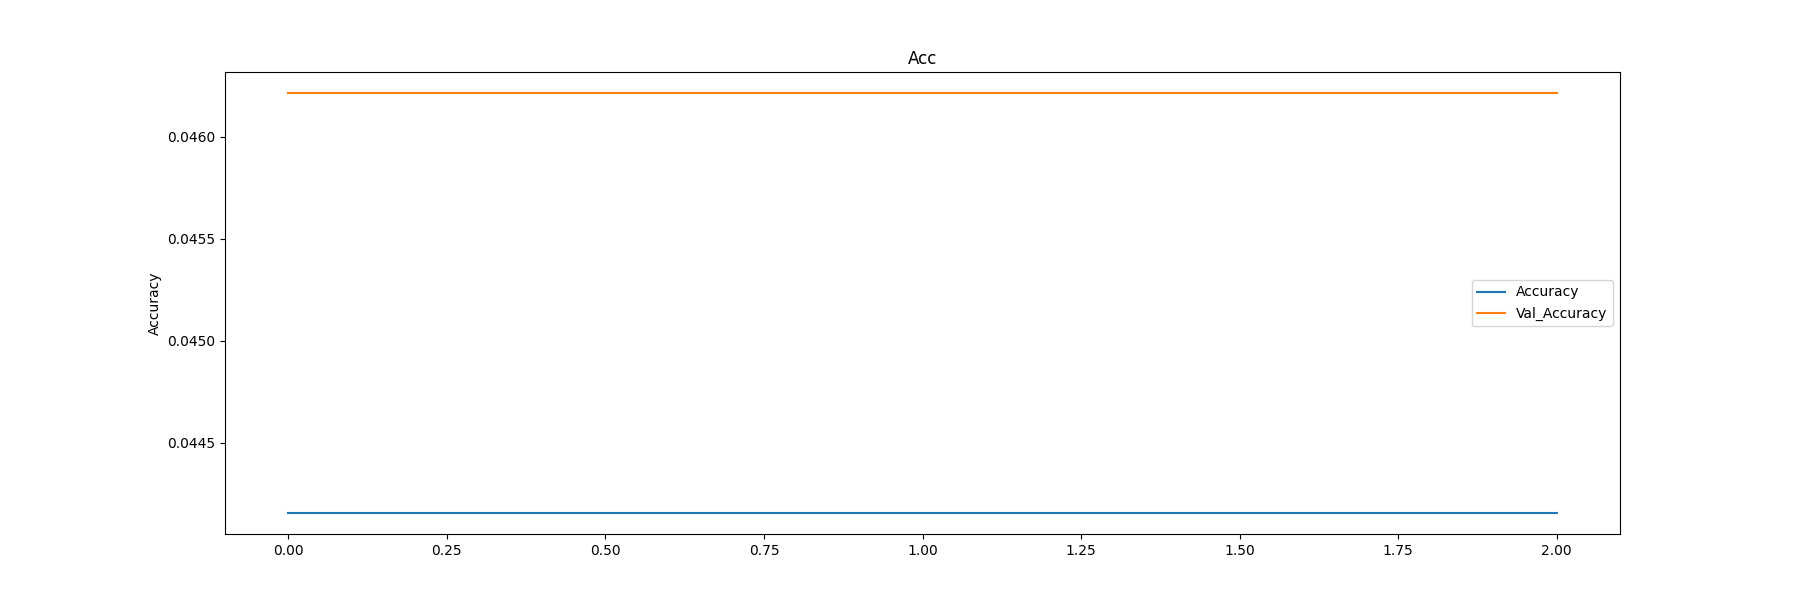
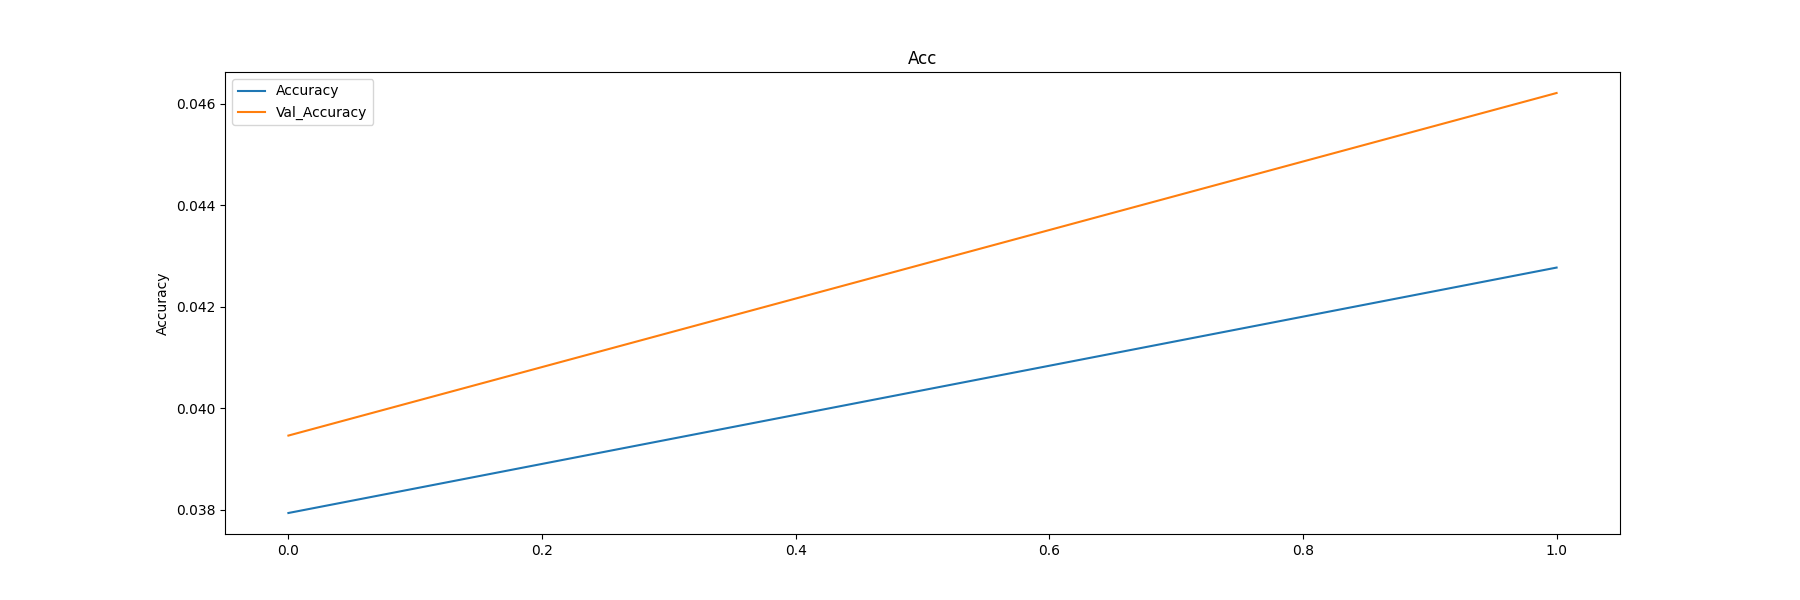
[AUTO] training model v0.0-testing, epoch 2.

diff --git a/commands/train_and_save.py b/commands/train_and_save.py
@@ -8,41 +8,46 @@ from commands.git import git_auto_commit
 from commands.history_plot import update_readme
 from model.data import flow_from_directory
 
-def train_and_save(model, epochs, save_interval = None,custom_metrics = None, custom_optimizer = None, push = None):
+def read_history(hist_path):
+    with open(hist_path) as csvfile:
+        csv_reader = csv.reader(csvfile)
+        return [row for row in csv_reader]
+    
+def create_history(hist_path, custom_metrics):
+    with open(hist_path, 'w', newline='') as csvfile:
+        csv_writer = csv.writer(csvfile)
+        columns = ['Epoch', 'Batch_Size', 'Loss', 'Accuracy', 'Val_Loss', 'Val_Accuracy']
+        if custom_metrics:
+            for metric in custom_metrics:
+                metric_name = metric.__name__
+                columns.append(metric_name)
+                columns.append("Val_" + metric_name)
+        csv_writer.writerow(columns)
+    return list()
 
-    initial_epoch = 0
+def train_and_save(model, epochs, save_interval = None, custom_metrics = None, custom_optimizer = None, push = None):
 
     hist_path = 'history.csv'
-    all_history = []
-    batch_size = 32
 
-    if not os.path.exists(hist_path):
-        os.makedirs('models', exist_ok=True)
-        with open(hist_path, 'w', newline='') as csvfile:
-            csv_writer = csv.writer(csvfile)
-            columns = ['Epoch', 'Loss', 'Accuracy', 'Val_Loss', 'Val_Accuracy']
-            if custom_metrics:
-                for metric in custom_metrics:
-                    metric_name = metric.__name__
-                    columns.append(metric_name)
-                    columns.append("Val_" + metric_name)
-            csv_writer.writerow(columns)
-    else:
-        with open(hist_path, 'r') as csvfile:
-            csv_reader = csv.reader(csvfile)
-            last_row = None
-            for row in csv_reader:
-                last_row = row
-                all_history.append(row)
-            if last_row:
-                initial_epoch = int(last_row[0])
+    os.makedirs('models', exist_ok=True)
     
-    latest_model = max(glob.glob("models/model_e*.h5"), default=None, key=os.path.getctime)
+    if os.path.exists(hist_path):
+        history = read_history(hist_path)
+        initial_epoch = int(history[-1][0])
+        batch_size = int(history[-1][1])
 
-    if latest_model is not None:
-        print(f"Resuming from {latest_model}")
-        model = tf.keras.models.load_model(latest_model, custom_objects={metric.__name__: metric for metric in custom_metrics})
+        latest_model = max(glob.glob("models/model_e*.h5"), default=None, key=os.path.getctime)
+
+        if latest_model is not None:
+            print(f"Resuming from {latest_model}")
+            model = tf.keras.models.load_model(latest_model, custom_objects={metric.__name__: metric for metric in custom_metrics})
+        else: raise Exception('No models found in the model directory')
+
     else:
+        history = create_history(hist_path, custom_metrics)
+        initial_epoch = 0
+        batch_size = 256
+
         model = compile_model(model, custom_metrics, custom_optimizer)
 
     temp_hist_data = []
@@ -55,20 +60,21 @@ def train_and_save(model, epochs, save_interval = None,custom_metrics = None, cu
 
     for epoch in range(initial_epoch + 1, epochs + initial_epoch + 1):
         
-        total_history = all_history + temp_hist_data
+        total_history = history + temp_hist_data
 
         training_generator, validation_generator, _, new_batch_size = flow_from_directory(
-            batch_size=batch_size,
-            history=total_history,
-            n_last_epochs=5
+            batch_size = batch_size,
+            history = total_history,
+            n_last_epochs = 20
         )
 
         batch_size = new_batch_size
 
-        hist = model.fit(training_generator, validation_data=validation_generator)
-        hist_data = [epoch] + [hist.history[key][0] for key in hist.history]
+        hist = model.fit(training_generator, validation_data = validation_generator)
+        hist_data = [epoch, batch_size] + [hist.history[key][0] for key in hist.history]
 
         temp_hist_data.append(hist_data)
+        total_history = history + temp_hist_data
             
         if save():
             model_path = f"models/model_e{epoch}.h5"
@@ -79,20 +85,14 @@ def train_and_save(model, epochs, save_interval = None,custom_metrics = None, cu
                     for row in temp_hist_data:
                         csv_writer.writerow(row)
 
-            all_history.clear()
-            
-            with open(hist_path, 'r') as csvfile:
-                csv_reader = csv.reader(csvfile)
-                for row in csv_reader:
-                    all_history.append(row)
-        
-        # Clear temporary history data
-        temp_hist_data.clear()
-        print(f"Saved model and history at epoch {epoch}")
-        update_readme()
+            temp_hist_data.clear()
+            history = read_history(hist_path)
 
-        if push:
-            git_auto_commit('0.0-testing', epoch)
+            print(f"Saved model and history at epoch {epoch}")
+            update_readme()
+
+            if push:
+                git_auto_commit('0.0-testing', epoch)
 
 
 

diff --git a/commands/history_plot.py b/commands/history_plot.py
@@ -5,7 +5,7 @@ import matplotlib.pyplot as plt
 
 def read_hist():
     hist = pd.read_csv('history.csv')
-    hist.columns = ['Epoch', 'Loss', 'Accuracy', 'f1_score', 'Val_Loss', 'Val_Accuracy', 'Val_f1_score']
+    hist.columns = ['Epoch', 'Batch_Size', 'Loss', 'Accuracy', 'f1_score', 'Val_Loss', 'Val_Accuracy', 'Val_f1_score']
     return hist
 
 def create_seaborn_figure(dataframe, columns, fig_name):

diff --git a/model/settings.py b/model/settings.py
@@ -1,8 +1,8 @@
 import tensorflow as tf
 from keras.optimizers import Adam
 
-HEIGHT = round(560 / 2)
-WIDTH = round(950 / 2)
+HEIGHT = 20 # round(560 / 2)
+WIDTH = 20 # round(950 / 2)
 N_CATEGORIES = 39
 
 
